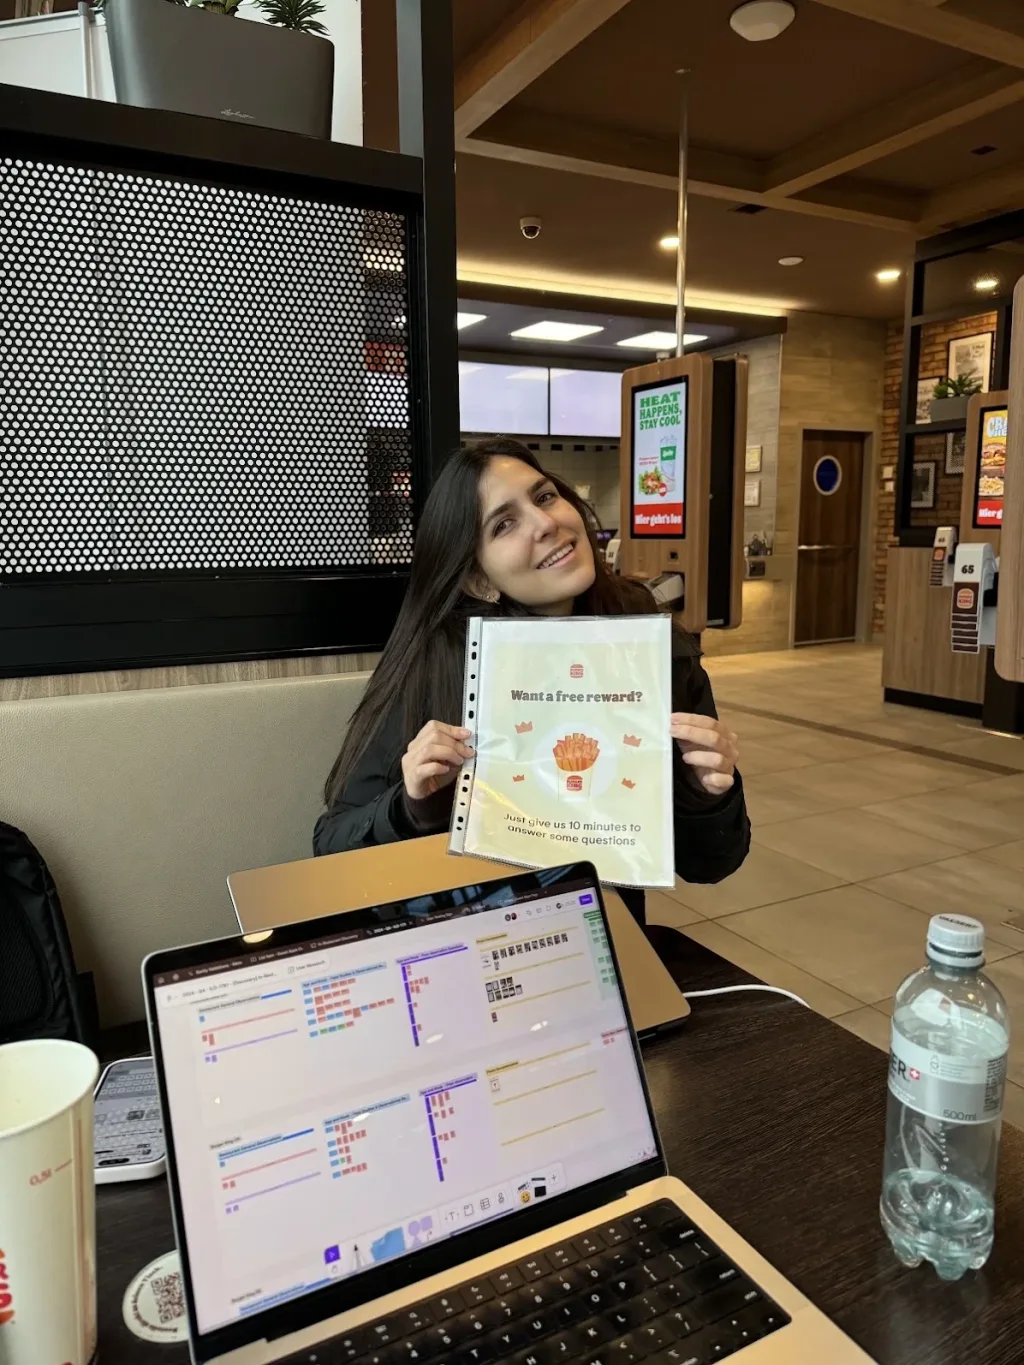
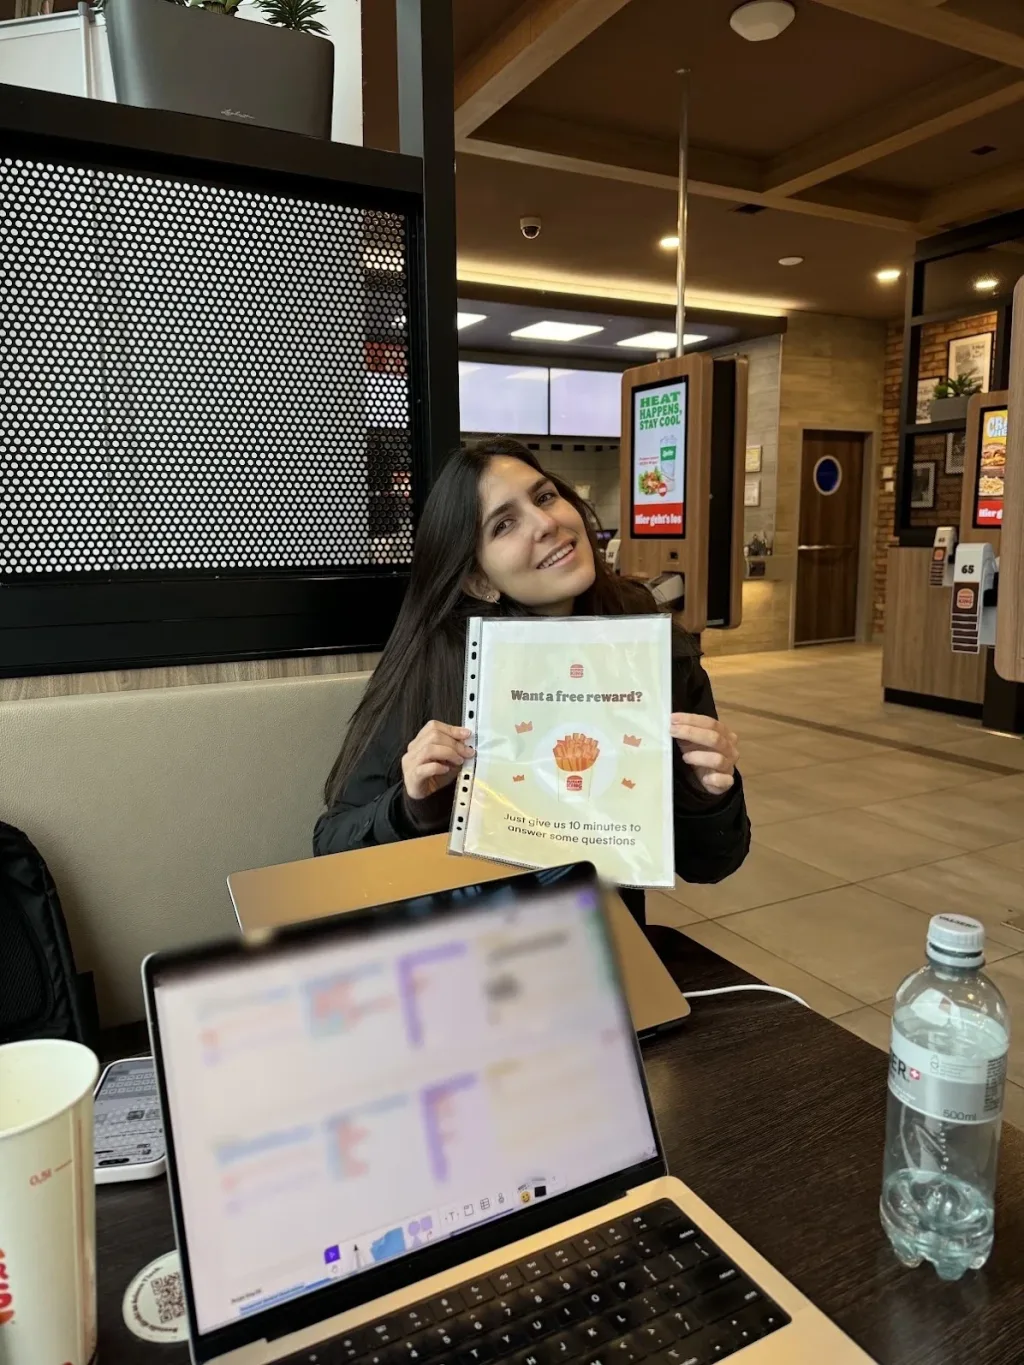
Burger King case: approximate figures with a confidentiality note
- The funnel chart shows rounded values with "~" (the pattern between countries is kept) and a note under it.
- The A/B results read "~+2 pts" and "~−7 pts" with the same note; Zuko rounds them too, in both languages.
- The browser tabs and board titles on the laptop in a field photo are blurred (the original is kept in
  design-handoff/covers/).
- Charts and stats can now carry `approximate` and `note`.

diff --git a/src/content/validate.ts b/src/content/validate.ts
@@ -143,6 +143,8 @@ export function assertReaderItem(id: string, v: unknown): asserts v is ReaderIte
       if (!c || typeof c !== "object" || typeof c.title !== "string" || !c.title) bad(`pages[${i}].chart needs a title`);
       if (c!.kicker !== undefined && typeof c!.kicker !== "string") bad(`pages[${i}].chart.kicker must be a string`);
       if (c!.color !== undefined && (typeof c!.color !== "string" || !HEX.test(c!.color))) bad(`pages[${i}].chart.color must be a #RRGGBB colour`);
+      if (c!.note !== undefined && typeof c!.note !== "string") bad(`pages[${i}].chart.note must be a string`);
+      if (c!.approximate !== undefined && typeof c!.approximate !== "boolean") bad(`pages[${i}].chart.approximate is true or false`);
       const gs = c!.groups;
       if (!Array.isArray(gs) || gs.length === 0) bad(`pages[${i}].chart.groups must be a non-empty list`);
       (gs as Record<string, unknown>[]).forEach((g, j) => {
@@ -177,6 +179,7 @@ export function assertReaderItem(id: string, v: unknown): asserts v is ReaderIte
     if (pg!.stats !== undefined) {
       const st = pg!.stats as { items?: Record<string, unknown>[] } | null;
       if (!st || !Array.isArray(st.items) || st.items.length === 0) bad(`pages[${i}].stats needs a list of items`);
+      if ((st as { note?: unknown }).note !== undefined && typeof (st as { note?: unknown }).note !== "string") bad(`pages[${i}].stats.note must be a string`);
       st!.items!.forEach((it, j) => {
         if (!it || typeof it.label !== "string" || (it.value === undefined ? typeof it.display !== "string" : typeof it.value !== "number")) {
           bad(`pages[${i}].stats.items[${j}] needs a label and either a number (value) or a word (display)`);

diff --git a/src/content/types.ts b/src/content/types.ts
@@ -84,6 +84,10 @@ export interface PageChart {
     subtitle?: string;
     bars: { label: string; value: number }[];
   }[];
+  /** The values are rounded or adjusted (confidential data): each shows with "~". */
+  approximate?: boolean;
+  /** Small print under the chart (a confidentiality note, a source). */
+  note?: string;
 }
 
 /** Photos pinned to a book's left page like polaroids, each one opening large when clicked. */
@@ -135,6 +139,8 @@ export interface PageStats {
     display?: string;
     label: string;
   }[];
+  /** Small print under the numbers (a confidentiality note, a source). */
+  note?: string;
 }
 
 /** Numbered cards on a book's left page that open one at a time (problems, findings…). */

diff --git a/src/components/Reader/parts.tsx b/src/components/Reader/parts.tsx
@@ -73,12 +73,13 @@ function BarChart({ chart }: { chart: PageChart }) {
                 <span className={styles.chartTrack} aria-hidden="true">
                   <span className={styles.chartFill} style={{ width: `${b.value}%`, animationDelay: `${0.15 + 0.08 * row++}s` }} />
                 </span>
-                <span className={styles.chartValue}>{b.value}%</span>
+                <span className={styles.chartValue}>{chart.approximate ? "~" : ""}{b.value}%</span>
               </li>
             ))}
           </ul>
         </section>
       ))}
+      {chart.note && <figcaption className={styles.panelNote}>{chart.note}</figcaption>}
     </figure>
   );
 }

diff --git a/src/components/Reader/Reader.module.css b/src/components/Reader/Reader.module.css
@@ -7063,3 +7063,16 @@ button.chatAvatar:focus-visible {
     display: none;
   }
 }
+
+/* Small print under a chart or a row of numbers: a confidentiality note, a source. */
+.panelNote {
+  margin: calc(0.8 * var(--k) * 1cqw) 0 0;
+  font-family: var(--font-ui);
+  font-size: calc(0.66 * var(--k) * 1cqw);
+  line-height: 1.45;
+  color: rgb(var(--ink-rgb) / 0.62);
+}
+
+.root[data-compact="true"] .panelNote {
+  font-size: 12px;
+}

diff --git a/src/components/Reader/PageArt.tsx b/src/components/Reader/PageArt.tsx
@@ -71,6 +71,7 @@ export function Stats({ stats }: { stats: PageStats }) {
           <Stat key={it.label} item={it} run={seen} index={i} />
         ))}
       </ul>
+      {stats.note && <p className={styles.panelNote}>{stats.note}</p>}
     </div>
   );
 }
